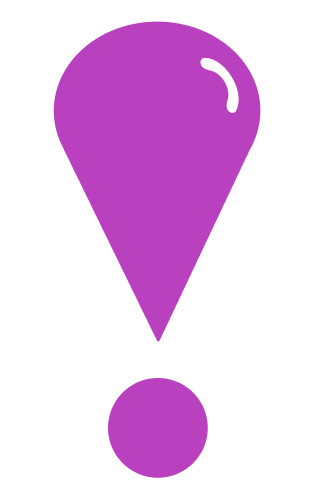
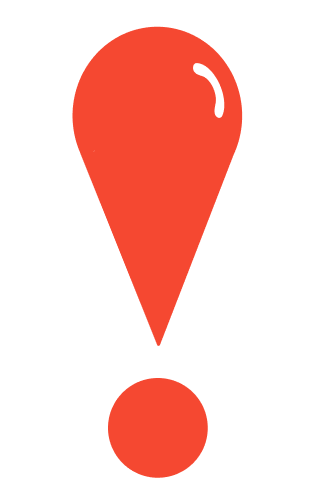
changed purple and pink to red and orange

diff --git a/lib/Views/settings.dart b/lib/Views/settings.dart
@@ -534,7 +534,7 @@ class _SettingsState extends State<Settings> {
                   child: ElevatedButton(
                       child: const Text('dialog.reset').tr(),
                       style: ElevatedButton.styleFrom(
-                        primary: Color(0xFFb941bf),
+                        primary: Color(0xFFf54831),
                       ),
                       onPressed: () => {
                         showDialog(

diff --git a/lib/Widgets/statistics/WeeklyBarChart.dart b/lib/Widgets/statistics/WeeklyBarChart.dart
@@ -26,8 +26,8 @@ class WeeklyBarChartState extends State<WeeklyBarChart> {
   static const Color foregroundColor = Color(0xFFF2F2F2);
 
   List<Color> gradientColors = [
-    const Color(0xff8d60bd),
-    const Color(0xffb941bf),
+    const Color(0xffed882f),
+    const Color(0xfff54831)
   ];
 
   WeeklyBarChartState(this.waterListWeek, this.startDate) {

diff --git a/lib/Widgets/statistics/DailyLineChart.dart b/lib/Widgets/statistics/DailyLineChart.dart
@@ -31,8 +31,8 @@ class _DailyLineChartState extends State<DailyLineChart> {
   List<double> _cummulatedWater = [];
 
   List<Color> gradientColors = [
-    const Color(0xff8d60bd),
-    const Color(0xffb941bf),
+    const Color(0xffed882f),
+    const Color(0xfff54831),
   ];
 
   static const Color foregroundColor = Color(0xFFF2F2F2);
